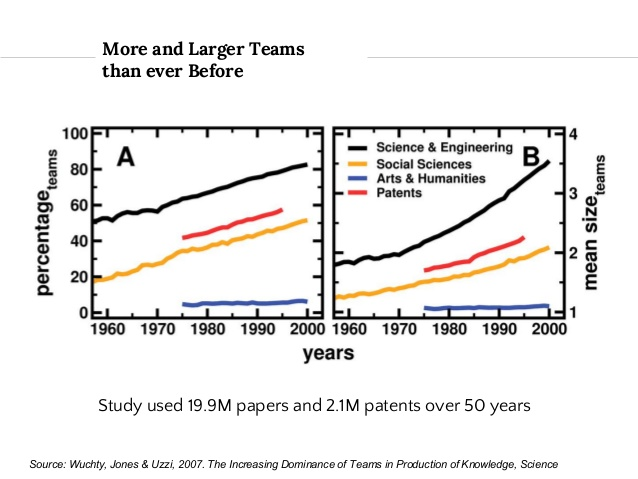
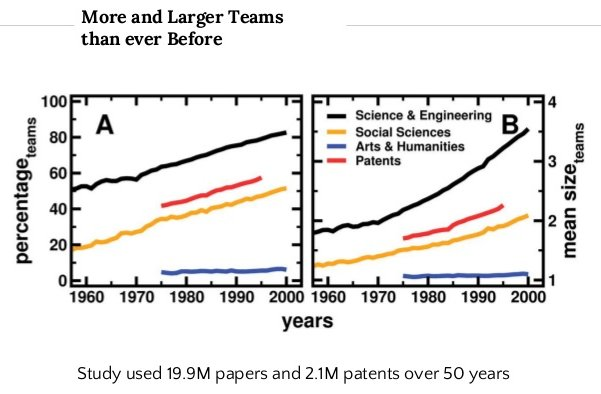
add collaborating with GitHub slides

Changed region(s): [[0.0, 0.2132, 0.9884, 0.8832], [0.03, 0.9137, 0.8686, 1.0], [0.1198, 0.0305, 0.4792, 0.1827]]

diff --git a/docs/index.html b/docs/index.html
@@ -23,12 +23,31 @@ class: center, middle, inverse, title-slide
 
 #### an increasingly collaborative world 
 
-.center[![teams](assets/figures/wutchty_teams.jpg)]
+.center[
+  &lt;img src="assets/figures/wutchty_teams.jpg" width="80%"&gt;&lt;/img&gt;
+]
+
+.footnote[Wuchty et al. 2007 [The Increasing Dominance of Teams in Production of Knowledge](http://science.sciencemag.org/content/316/5827/1036)]
 
 
 ---
 
-#### tools
+#### collaboration tools
+
+&lt;br&gt;
+&lt;br&gt;
+&lt;br&gt;
+
+.center[
+  &lt;img src="assets/figures/dropbox.png" style="width:30%"&gt;
+  &lt;img src="assets/figures/onedrive.png" style="width:28%"&gt;
+  &lt;img src="assets/figures/googledrive.jpg" style="width:28%"&gt;
+]
+
+
+---
+
+#### tools for reproducible research and collaboration
 
 ![tools](assets/figures/tools.png)
 
@@ -46,27 +65,59 @@ class: center, middle, inverse, title-slide
 
 ---
 
-#### collaboration tools
+#### version control with Git and GitHub
 
 .center[
-    &lt;img src="assets/figures/dropbox.png" style="width:30%"&gt;
-    &lt;img src="assets/figures/onedrive.png" style="width:28%"&gt;
-    &lt;img src="assets/figures/googledrive.jpg" style="width:28%"&gt;
+  &lt;img src="assets/figures/GitHubCollaboration - solo.png" width="35%"&gt;&lt;/img&gt;
+]
+
+---
+
+#### collaboration with GitHub - shared repository
+
+a shared repository or team environment makes collaborating with GitHub very easy
+
+.center[
+  &lt;img src="assets/figures/GitHubCollaboration - team.png" width="60%"&gt;&lt;/img&gt;
 ]
 
 
 ---
 
-#### collaboration with GitHub
+#### collaboration with GitHub - forking
 
-.center[![github](assets/figures/git-collaboration.png)]
+.center[
+  &lt;img src="assets/figures/GitHubCollaboration - fork.png" width="75%"&gt;&lt;/img&gt;
+]
+
+
+---
+
+#### collaboration with GitHub - forking
+
+forking is a invaluable tool but in itself does not facilitate complete synchronization
+
+.center[
+  &lt;img src="assets/figures/GitHubCollaboration - push-to-fork.png" width="70%"&gt;&lt;/img&gt;
+]
+
+
+---
+
+#### collaboration with GitHub - pull request
+
+.center[
+  &lt;img src="assets/figures/GitHubCollaboration - pull-request.png" width="75%"&gt;&lt;/img&gt;
+]
 
 
 ---
 
 #### real-world example: cross-site soil organic matter synthesis
 
-.center[&lt;img src="assets/figures/soil-organic-matter.png" width="90%"&gt;]
+.center[
+  &lt;img src="assets/figures/soil-organic-matter.png" width="90%"&gt;
+]
     </textarea>
 <script src="https://remarkjs.com/downloads/remark-latest.min.js"></script>
 <script>var slideshow = remark.create({
